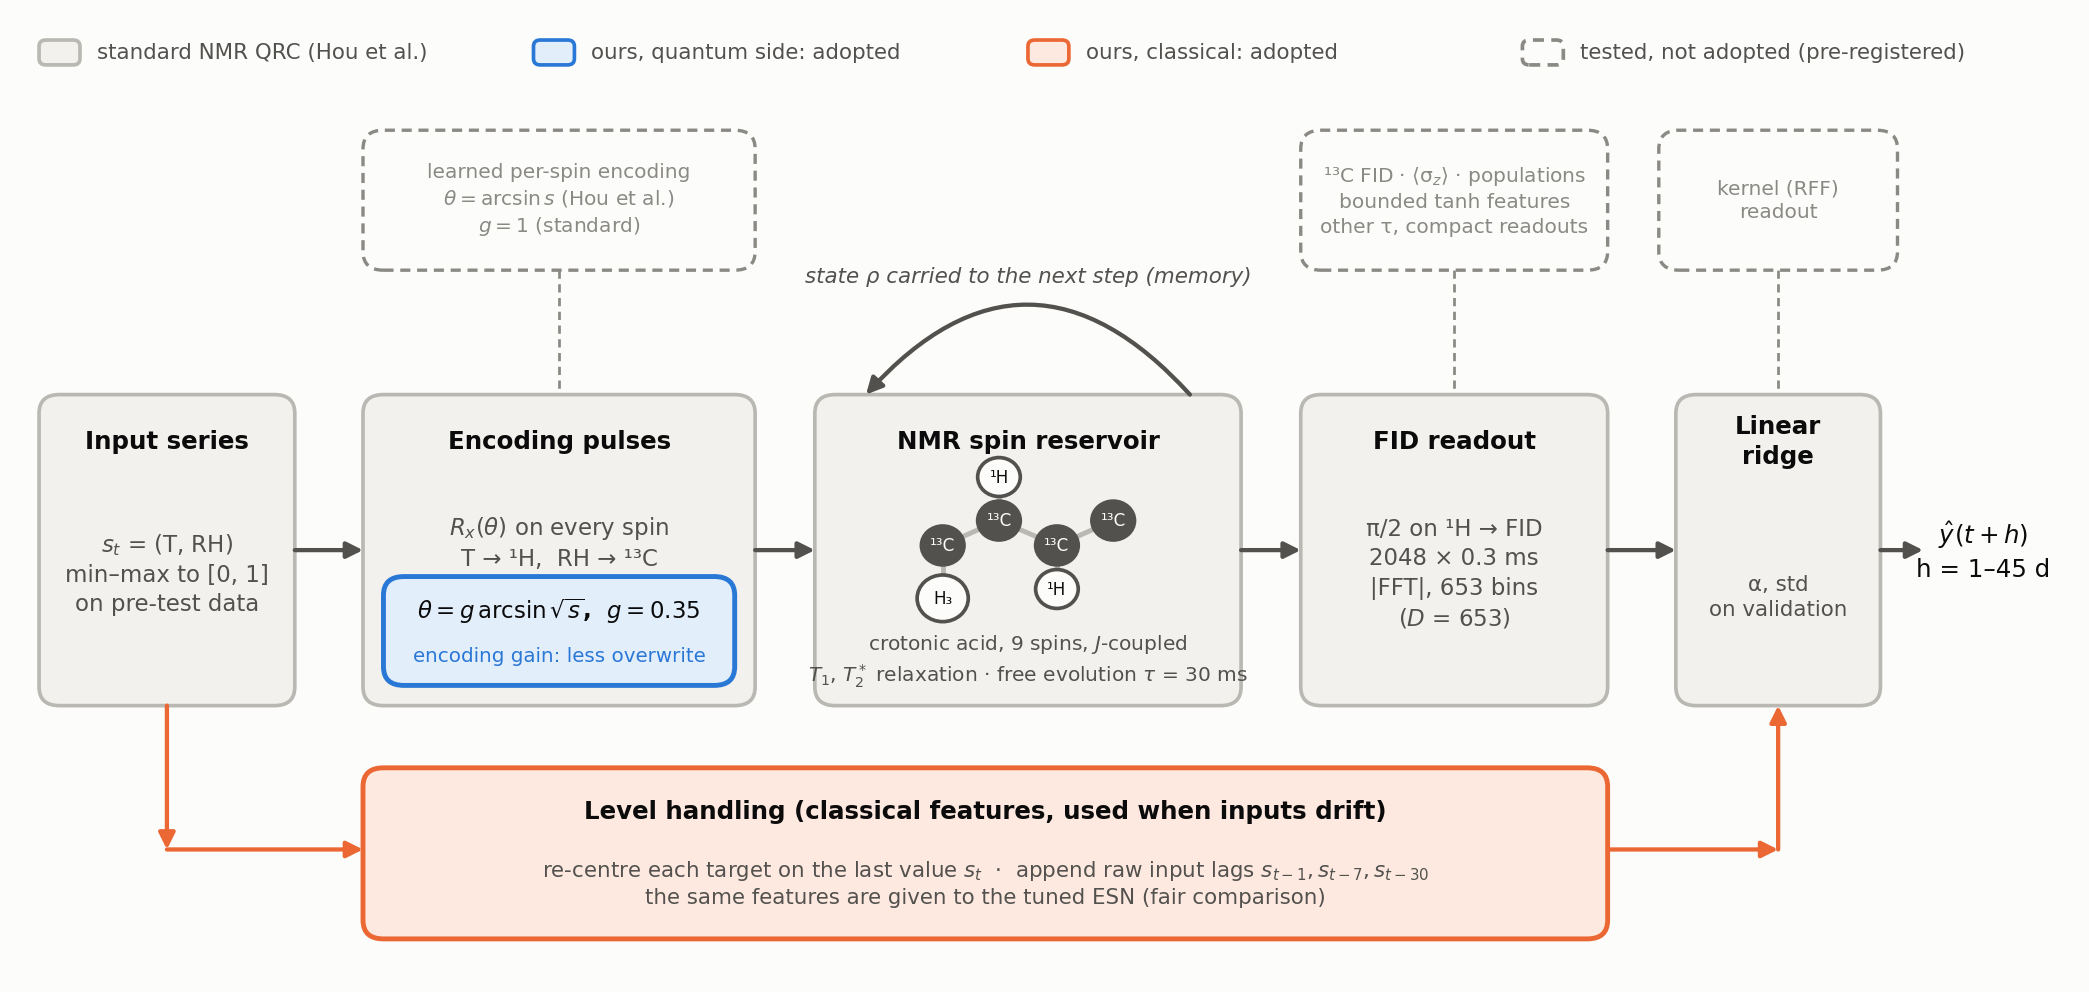
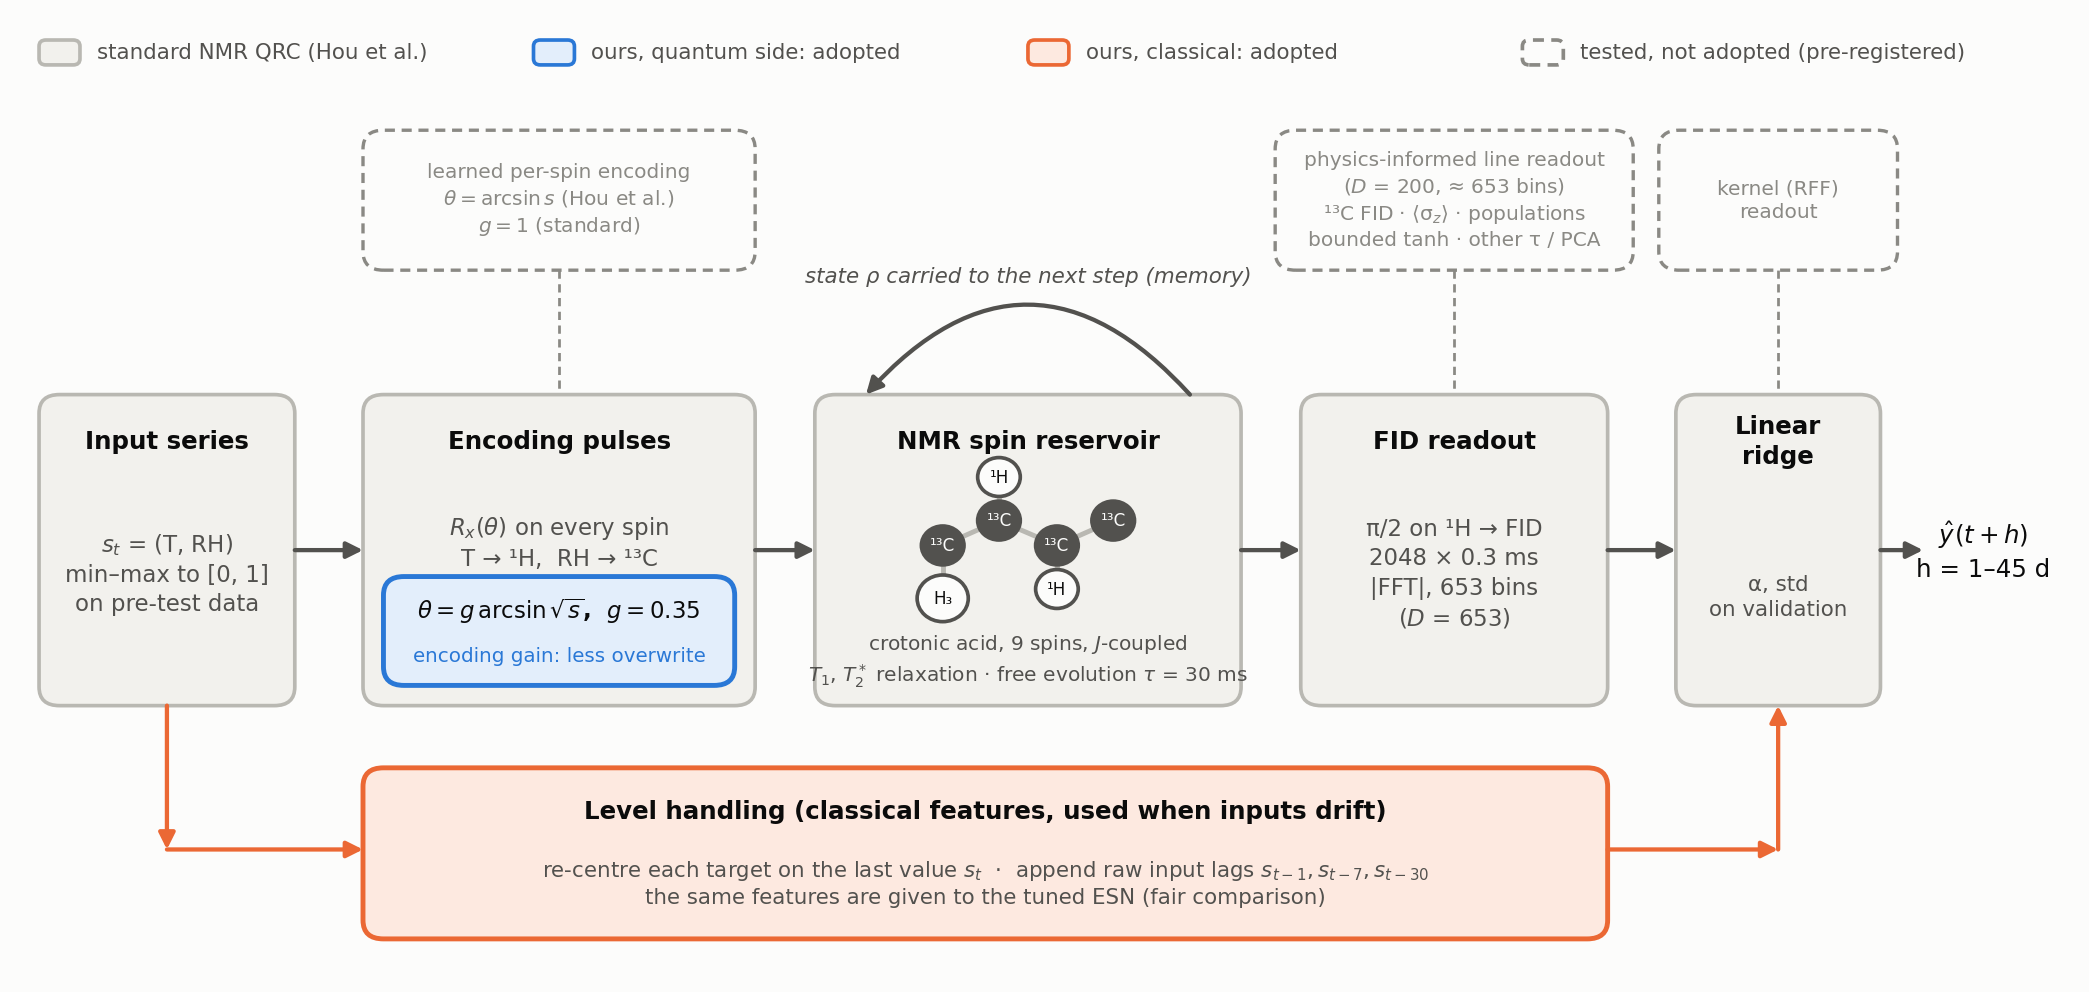
Manuscript: restore physics-informed line readout as its own subsection (eqs, D_eff table, real-data result), contribution (5); add to Fig. 1

Changed region(s): [[0.6223, 0.125, 0.7779, 0.2812]]

diff --git a/docs/QRC/QRC_Next_Stage_Status.html b/docs/QRC/QRC_Next_Stage_Status.html
@@ -82,6 +82,7 @@
   <div class="scroll"><table>
     <thead><tr><th>When</th><th>Subtask</th><th>Result</th><th>Commit</th></tr></thead>
     <tbody>
+      <tr><td>10-25</td><td><b>Physics-informed line readout restored</b></td><td><span class="tag t-done">done</span> Own subsection again (line equation, projection, D_eff table, D = 200 near-equal to 653 bins); contribution (5); in Fig. 1.</td><td>&lt;this commit&gt;</td></tr>
       <tr><td>10-25</td><td><b>Pipeline diagram (Fig. 1)</b></td><td><span class="tag t-done">done</span> QRC schematic marking the standard pipeline, our input-side gain, our output-side level handling, and the tested-but-not-adopted changes.</td><td>&lt;this commit&gt;</td></tr>
       <tr><td>10-25</td><td><b>Zenodo plan refreshed</b></td><td><span class="tag t-done">done</span> 90 GB of traces in 3 records (A 34 GB, C 20.5 GB, B 20.8 GB). Ready for upload once the author list is added.</td><td>&lt;this commit&gt;</td></tr>
       <tr><td>10-25</td><td><b>Step 6 result: nothing adopted</b></td><td><span class="tag t-done">result</span> Paper encoding arcsin(s) 0.690 vs final 0.706. 13C / population readouts at most +0.002, no memory gain: the memory gap is set by the write, not the readout. Confirmation 4 not run.</td><td>&lt;this commit&gt;</td></tr>

diff --git a/docs/QRC/QRC_Manuscript.tex b/docs/QRC/QRC_Manuscript.tex
@@ -118,9 +118,12 @@ that the long-horizon gap of an NMR reservoir is largely input overwrite, remova
 one physical parameter (the encoding gain), confirmed out of sample in six untouched
 cities; (3) pre-registered evidence on nine untouched cities that the final design is
 mostly non-inferior to---but never better than---tuned classical models, with the
-remaining gap located in long memory; and (4) a pre-registered drift test showing
+remaining gap located in long memory; (4) a pre-registered drift test showing
 that the QRC's failure under input shift is fixed by classical level handling, not by
-the reservoir.
+the reservoir; and (5) a physics-informed readout derived from the Hamiltonian, which
+projects the FID onto its analytic $J$-multiplet lines. It matches the 653-bin readout
+with about $3\times$ fewer features and is differentiable
+(Sec.~\ref{sec:mech-readout}).
 
 % ======================================================================
 \section{The physical reservoir and its readout}\label{sec:model}
@@ -241,6 +244,56 @@ readout of Ref.~\cite{Hou2026}; we call it the \emph{653-bin FID readout}, $D=65
 readout $W=(X^\top X+\alpha I)^{-1}X^\top y$ maps the features to every forecast
 target; whether the features are standardized and the penalty $\alpha$ are chosen on
 validation data (Sec.~\ref{sec:protocol}).
+
+\subsection{Physics-informed line readout}\label{sec:mech-readout}
+% Source: SOP section 3.2 (QRC_STANDARD_PROCEDURES.md); line counts from
+% backend/app/qrc/spectral_lines.py physics_informed_lines (crotonic-9 protons 1280 / 1.57 Hz / 100;
+% dccb7 all seven 448 / 0.60 Hz / 172, recomputed 2026-10-25); 6-spin rows as the earlier manuscript.
+The 653-bin readout selects FFT bins by magnitude. We also derive the readout from the
+Hamiltonian. Because $H$ in Eq.~\eqref{eq:H} is diagonal, the FID
+Eq.~\eqref{eq:fid} is a sum over \emph{single-quantum} transitions: flipping readout
+spin $k$ against a fixed configuration $z\in\{\pm1\}^{n-1}$ of the other spins
+oscillates, from Eq.~\eqref{eq:E}, at
+\begin{equation}
+  f_k(z) = \nu_k + \tfrac12\!\sum_{j\neq k} J_{kj}\,z_j .
+  \label{eq:lines}
+\end{equation}
+Each resonance is split into a $2^{n-1}$-line $J$-multiplet, and every peak of the
+653-bin readout is one of these lines or an FFT skirt of one. The encoding sets only
+the line amplitudes; the frequencies are fixed by $H$. Merging lines closer than the
+decoherence linewidth $\Delta f=1/(\pi T_2)$ leaves $D_{\mathrm{eff}}$ resolvable
+centres (Table~\ref{tab:deff}), which are read by a fixed direct-DFT projection
+\begin{equation}
+  X_k = \sum_{v=0}^{V-1} M^{+}(t_v)\, e^{\,i 2\pi f_k t_v}
+      = \big(M^{+}\Phi\big)_k,\qquad \Phi_{v,k}=e^{\,i2\pi f_k t_v},
+  \label{eq:proj}
+\end{equation}
+over $V$ FID samples, keeping real and imaginary parts: $D=2D_{\mathrm{eff}}$ real
+features. This \emph{line readout} has three properties. It counts the reservoir's
+actual output dimension instead of choosing it. It is a single matrix product, so it
+can be back-propagated through, which the learned encoding of regime B requires
+(Sec.~\ref{sec:regimes}). And it keeps the phase that $|$FFT$|$ discards. On real data
+at $g=0.35$, crotonic-9's 100 proton lines ($D=200$) reach a mean development
+validation $R^2$ of 0.7021 against 0.7059 for the 653 bins, with about $3\times$ fewer
+features (Table~\ref{tab:c5c7}). It was not adopted because the rule required a gain,
+but it is the readout of every mechanism result (Sec.~\ref{sec:mechanism}).
+
+\begin{table}[t]
+\caption{\label{tab:deff}Physics-informed line count (SOP \S3.2): single-quantum lines
+of the readout spins, the decoherence linewidth $\Delta f$, and the resolvable centres
+$D_{\mathrm{eff}}$ after merging lines closer than $\Delta f$. The line readout has
+$D=2D_{\mathrm{eff}}$ real features. Doubling the coupling ($c=2$) widens the multiplets
+and lifts near-degeneracies.}
+\begin{ruledtabular}
+\begin{tabular}{lrrr}
+system (readout spins) & raw lines & $\Delta f$ (Hz) & $D_{\mathrm{eff}}$ \\ \colrule
+crotonic-9 (protons) & 1280 & 1.57 & 100 \\
+dccb7 (seven $^{13}$C) & 448 & 0.60 & 172 \\
+abstract 6-spin, $c{=}1$ & 192 & 1.59 & 137 \\
+abstract 6-spin, $c{=}2$ & 192 & 1.59 & 161 \\
+\end{tabular}
+\end{ruledtabular}
+\end{table}
 
 \subsection{Numerical methods}
 We vectorize the density matrix, $\rho\!\to\!\vec\rho\in\mathbb{C}^{d^2}$ ($d=2^n$), and
@@ -835,18 +888,9 @@ features). Tuned ESN: mean of three replicates. Shift: mean test input in traini
 % full mechanism tables and figures (figP1-figP4) are in QRC_Fair_Comparison.md, not in this paper.
 Synthetic tasks are not the paper's performance claim; we use them only for ablations
 that are too costly on multi-decade real series. They use the regime-B learned
-per-spin encoding (Sec.~\ref{sec:regimes}) and a reduced readout: because $H$ is
-diagonal, every FID peak is a single-quantum line at
-\begin{equation}
-  f_k(z) = \nu_k + \tfrac12\!\sum_{j\neq k} J_{kj}\,z_j ,
-  \label{eq:lines}
-\end{equation}
-and projecting the FID onto the $D_{\mathrm{eff}}$ lines resolvable at the decoherence
-linewidth gives a differentiable readout with $D=2D_{\mathrm{eff}}$ real features
-(crotonic-9: $D_{\mathrm{eff}}=100$; an abstract six-spin Ising reservoir: $D=322$). On
-real data at $g=0.35$ this \emph{line projection} is within 0.004 of the 653-bin
-readout (Table~\ref{tab:c5c7}).
-\label{sec:mech-readout}
+per-spin encoding (Sec.~\ref{sec:regimes}), which needs gradients through the readout,
+so they use the differentiable physics-informed line readout of
+Sec.~\ref{sec:mech-readout} ($D=2D_{\mathrm{eff}}$, Table~\ref{tab:deff}).
 
 On NARMA-2, NARMA-10~\cite{Atiya2000} and Mackey--Glass~\cite{MackeyGlass1977}
 ($h=10$), with a time-contiguous 50/25/25 split, the learned encoding beats the fixed

diff --git a/docs/QRC/figures/code/qrc_pipeline_diagram.py b/docs/QRC/figures/code/qrc_pipeline_diagram.py
@@ -119,7 +119,8 @@ def main():
         ax.plot([anchor_x, anchor_x], [45, yb + hb], color=MUTED, lw=0.9, ls=(0, (3, 2)), zorder=1)
 
     dashed(20, 23, "learned per-spin encoding\n$\\theta = \\arcsin s$ (Hou et al.)\n$g = 1$ (standard)", 31.5)
-    dashed(75, 18, "¹³C FID · ⟨σ$_z$⟩ · populations\nbounded tanh features\nother τ, compact readouts", 84)
+    dashed(73.5, 21, "physics-informed line readout\n($D$ = 200, ≈ 653 bins)\n¹³C FID · ⟨σ$_z$⟩ · populations\n"
+                     "bounded tanh · other τ / PCA", 84)
     dashed(96, 14, "kernel (RFF)\nreadout", 103)
 
     # legend

diff --git a/docs/QRC/QRC_Next_Stage_Status.md b/docs/QRC/QRC_Next_Stage_Status.md
@@ -10,6 +10,7 @@ state, so we always know *what is left*.
 
 | When | Subtask | Result | Commit |
 |------|---------|--------|--------|
+| 2026-10-25 | **Physics-informed line readout restored in the manuscript** | 📝 It had been cut to two sentences during the synthetic trim. Restored as its own subsection of the readout section: the line equation, DFT projection, D_eff table (crotonic-9 1280 lines / 1.57 Hz / 100; dccb7 448 / 0.60 Hz / 172, recomputed with `spectral_lines.py`; 6-spin 137 / 161), and the real-data result (D = 200 at 0.7021 vs 0.7059 for 653 bins). Listed as contribution (5); added to Fig. 1 | `<this commit>` |
 | 2026-10-25 | **Pipeline diagram (figR0) added as manuscript Fig. 1** | 🖼 `qrc_pipeline_diagram.py`: input → encoding pulses → crotonic-9 reservoir (memory loop) → FID readout → ridge. Marks the standard NMR QRC (Hou et al.), our adopted encoding gain g = 0.35 (input side), our adopted level handling (classical, output side), and the pre-registered changes tested but not adopted (learned / paper encoding, ¹³C / population readouts, bounded features, τ / compact readouts, kernel readout). Figure README updated | `<this commit>` |
 | 2026-10-25 | **Zenodo plan refreshed with Steps 5-6** | 📦 Step 6 traces copied back (18 GB; A100 features reproduce the local g0.35 features exactly, max diff 0). Trace manifest: 1051 files, 90.2 GB. Records: A 34.0 GB (ERA5 + Confirmations 1-2), C 20.5 GB (Steps 5-6), B 20.8 GB (rest); all under the 45 GB target, recomputable features excluded. Ready for the upload agent (`docs/QRC/ZENODO_HANDOFF.md`; only the author list is missing) | `<this commit>` |
 | 2026-10-25 | **Step 6 result (pre-registered d022533): paper encoding + ¹³C / population readouts — nothing adopted, Confirmation 4 not run** | 🔴 Mean dev VAL R² (8 datasets): final 0.35·arcsin√s 0.7060; Hou's arcsin(s) 0.6903 (worse 5/8; above g = 1, 0.6798); readouts H 0.7060, ¹³C FID 0.7046, H⊕C 0.7083 (+0.0023, Santa Fe only), H⊕⟨σz⟩ 0.7058, H⊕populations 0.7068. Memory at lag 90 unchanged by every channel (Delhi 0.79) → the memory gap is a write (overwrite / T1) limit, not a readout limit. Singapore / Nairobi / Madrid stay untouched. 16 A100 jobs, ~35 min, traces saved (`artifacts/qrc_runs/step6/`). Manuscript: Step 6 subsection + table, abstract/conclusion updated | `<this commit>` |
